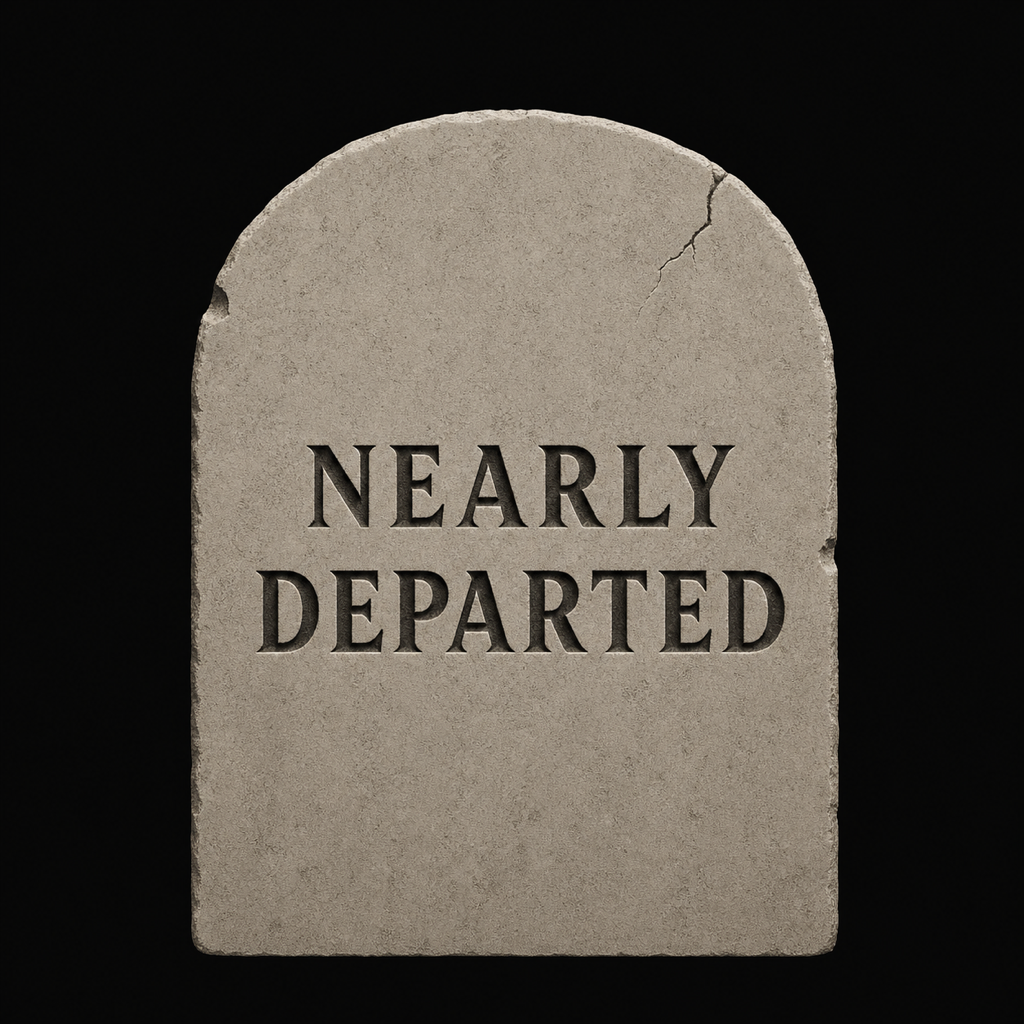
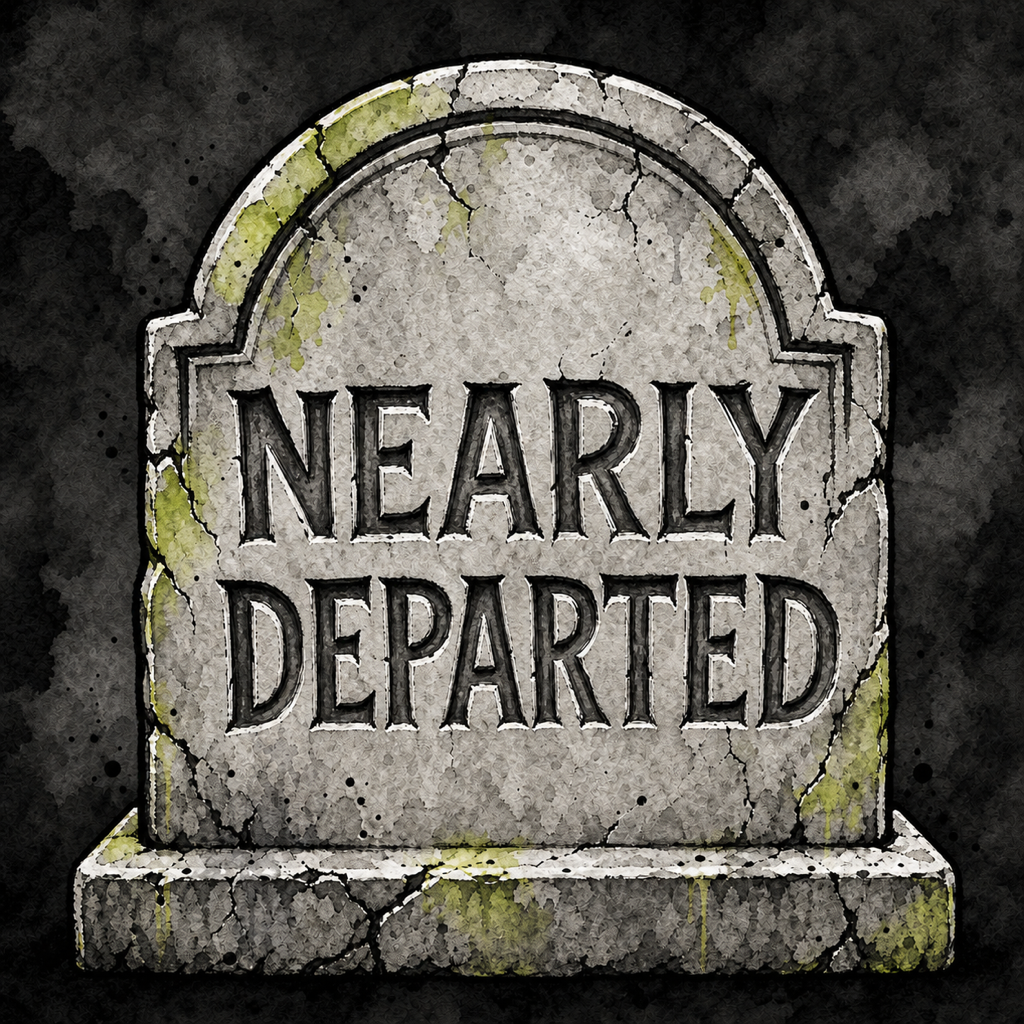
fix: update taglines in onboarding to enhance messaging

diff --git a/src/app/index.tsx b/src/app/index.tsx
@@ -15,9 +15,7 @@ import { SafeAreaView } from "react-native-safe-area-context";
 
 const TAGLINES = [
   "The most interesting people nearby are already dead.",
-  "Meet the neighbors you never knew you had.",
   "Meet the locals. The permanent ones.",
-  "The nearly departed, near you.",
   "Remarkable lives, just underfoot.",
 ];
 

diff --git a/docs/strategy-nexts-nopes.md b/docs/strategy-nexts-nopes.md
@@ -1,42 +1,64 @@
 # Strategy — Next's and Nopes
 
 _2026-07-14. Distilled from the moat discussion: the defensible position is curated
-trails + a verified-location layer scoped to notable graves — "the verified, walkable
-canon of graves worth visiting" — not a general burial database. Flywheel: trail →
-visit → confirmed markers → better trails._
+processions (guided cemetery walks) + a verified-location layer scoped to notable
+graves — "the verified, walkable canon of graves worth visiting" — not a general
+burial database. Flywheel: procession → visit → confirmed markers → better
+processions._
+
+## Naming (decided 2026-07-14)
+
+- **Cemetourists** — the identity/community umbrella (etiquette page shipped).
+- **Processions** — the product name for guided walks. A single walk is "a
+  procession"; city packs are "The Denver Processions"; CTA register: "Begin the
+  procession." Reserved: "the Cortège" as a possible all-access tier name.
+- Don't compound the two into one label.
+
+## Monetization frame (decided 2026-07-14)
+
+**Discovery free forever; guided experiences paid.** Never gate map, search,
+favorites, or sync. Sequence: one-time city packs ($4–8) first; all-access
+subscription ($20–30/yr) only once the catalog clears ~10 processions across 3+
+cities. The first procession in every city stays free (flywheel seed). Trail schema
+ships with an `entitlement` field from day one.
 
 ## Next's
 
 1. [ ] **Ship v1.0.** Avatar picker + account sync runtime-verified 2026-07-14; nothing
        strategic happens until it's in the store.
-2. [ ] **Hand-build trail #1: Littleton Cemetery.** Packer is the star. 10–15 stops,
-       walk order, 2–3 editorial sentences each. Schema: `trails` + ordered stops by qid.
+2. [ ] **Hand-build procession #1: Littleton Cemetery.** Packer is the star. 10–15
+       stops, walk order, 2–3 editorial sentences each. Schema: `processions` +
+       ordered stops by qid + `entitlement`.
 3. [ ] **Walk it once, fix the pins by hand.** That walk is the verified-location layer,
-       v0. No UGC system — just correct coordinates for graves on a trail.
+       v0. No UGC system — just correct coordinates for graves on a procession.
 4. [ ] **One-tap "right spot?" confirm** on person detail, shown only within ~50m of the
        pin. Cheapest field-data capture; writes to a `location_reports` table.
-5. [ ] **Trails #2–3 in Denver** (labor history, women of Colorado). Three trails is the
-       minimum to see completion/save/abandon patterns.
+5. [ ] **Processions #2–3 in Denver** (labor history, women of Colorado). Three
+       processions is the minimum to see completion/save/abandon patterns.
 6. [ ] **Instrument the funnel** — discover → detail → directions → confirm. An events
        table in Supabase is enough.
-7. [ ] **Then pitch one historical society**, with usage numbers and a working trail as
-       the demo.
+7. [ ] **Then pitch one historical society**, with usage numbers and a working
+       procession as the demo.
 
 **Decided, parked (2026-07-14): daylight map toggle.** If field use confirms sunlight
 glare, add a toggle that swaps only the map style to a light basemap — dark chrome
 stays (it's the brand). No full light theme without a new decision. Slots naturally
-into the trail #1 field-walk (next #3).
+into the procession #1 field-walk (next #3).
 
 ## Nopes
 
 - **No general burial database.** All-graves ambition is Ancestry's turf (Find a Grave:
   ~250M records, 25 years of family-motivated contributors).
 - **No UGC contribution system yet.** Tourists browse, family contributes — we have
-  tourists. Visit intent comes first (trails); contributions fall out as a byproduct.
+  tourists. Visit intent comes first (processions); contributions fall out as a
+  byproduct.
 - **No recommendation engine yet.** Personalization needs behavior data that won't exist
   for months.
-- **No partnerships-first.** Nothing to offer an institution until trails have users.
+- **No partnerships-first.** Nothing to offer an institution until processions have
+  users.
 - **No AI-bio or map-polish sprints as strategy.** Features, not moats — fine to do,
   never the bet.
 - **No scraping Find a Grave.** Licensing risk, and it imports their data model — the
   thing this app is inverting.
+- **No paywall on discovery.** Charging for the map/search would poison the flywheel
+  and it's public data anyway. The walk is the product, not the door.